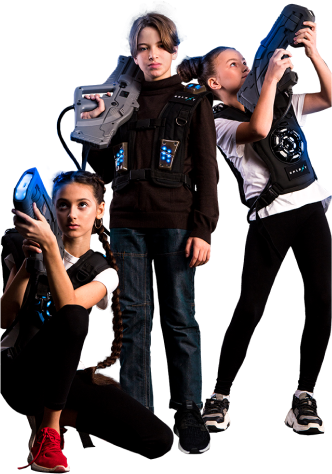
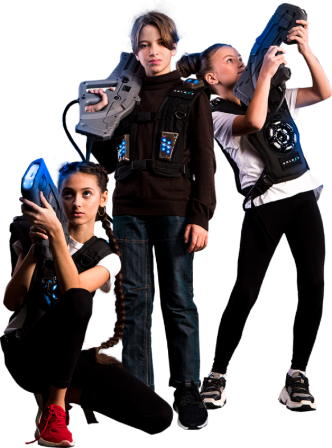
хедер + адаптив

diff --git a/dist/css/main.css b/dist/css/main.css
@@ -1,1 +1,1 @@
-.birsday-choose{text-align:center}.birsday-choose .card-image img{max-height:3000px}.card-undertext{font-size:18px;line-height:1.3}#navigation{top:0!important}.section-dark{position:relative;padding:0!important;z-index:-1}.wrapper{width:100%;min-height:100%;overflow:hidden;display:-webkit-box;display:-ms-flexbox;display:flex;-webkit-box-orient:vertical;-webkit-box-direction:normal;-ms-flex-direction:column;flex-direction:column}.header-bg{background:url(../images/desktop/bg_grig_d.png) center no-repeat,url(../images/desktop/bg_flash_d.jpg) center no-repeat,#000}.hentry{margin:100px 0 0 0}.entry-header{margin-top:-60px;text-align:center}.entry-title{font-size:29px}.entry-title span{color:#0090ff;font-weight:700}.entry-content{text-align:center;font-size:17px;line-height:20px}.banner__title{text-align:center;font-size:24px}.banner__title span{color:#0090ff}
+.birsday-choose{text-align:center}.birsday-choose .card-image img{max-height:3000px}.card-undertext{font-size:18px;line-height:1.3}#navigation{top:0!important}.section-dark{position:relative;padding:0!important;z-index:-1}.wrapper{width:100%;min-height:100%;overflow:hidden;display:-webkit-box;display:-ms-flexbox;display:flex;-webkit-box-orient:vertical;-webkit-box-direction:normal;-ms-flex-direction:column;flex-direction:column}.header-bg{background:url(../images/desktop/bg_grig_d.png) 100% 350px/140% 35% no-repeat,url(../images/desktop/bg_flash_d.jpg) center/200% 70% no-repeat,#000}.hentry{margin:100px 0 0 0}.entry-header{margin-top:-60px;text-align:center}.entry-title{font-size:29px;color:#fff}.entry-title span{color:#0090ff;font-weight:700}.entry-content{text-align:center;font-size:17px;line-height:20px;color:#fff}.banner{display:-webkit-box;display:-ms-flexbox;display:flex;-webkit-box-orient:vertical;-webkit-box-direction:normal;-ms-flex-direction:column;flex-direction:column;-webkit-box-align:center;-ms-flex-align:center;align-items:center}.banner__title{margin:20px 0 0 0;text-align:center;font-size:27px;color:#fff;width:205px}.banner__title span{color:#0090ff}@media (min-width:479.99px){.banner__title{width:370px;font-size:35px}}@media (min-width:767.99px){.header-bg{background:url(../images/desktop/bg_grig_d.png) 100% 275px/100% 50% no-repeat,url(../images/desktop/bg_flash_d.jpg) center/200% 70% no-repeat,#000}.banner picture{width:50%}.banner{-webkit-box-orient:horizontal;-webkit-box-direction:reverse;-ms-flex-direction:row-reverse;flex-direction:row-reverse;-ms-flex-pack:distribute;justify-content:space-around}}@media (min-width:1023.99px){.header-bg{background:url(../images/desktop/bg_grig_d.png) 100% 175px/100% 70% no-repeat,url(../images/desktop/bg_flash_d.jpg) center/200% 70% no-repeat,#000}.banner__title{margin:60px 0 0 0;width:500px;font-size:42px;text-align:left}}@media (min-width:1199.99px){.header-bg{background:url(../images/desktop/bg_grig_d.png) 100% 175px/100% 75% no-repeat,url(../images/desktop/bg_flash_d.jpg) center/200% 70% no-repeat,#000}}@media (min-width:1439.99px){.banner picture{width:60%;padding-left:150px}.banner{-webkit-box-pack:justify;-ms-flex-pack:justify;justify-content:space-between}}@media (min-width:1440px){.container{max-width:1280px!important}}

diff --git a/src/scss/main.scss b/src/scss/main.scss
@@ -34,6 +34,11 @@ $blue: #0090FF;
   padding: 0!important;
   z-index: -1;
 }
+@media (min-width: 1440px) {
+  .container{
+    max-width: 1280px!important;
+  }
+}
 // =============переопределение стилей
 
 
@@ -50,7 +55,17 @@ $blue: #0090FF;
 .container {
 }
 .header-bg{
-  background: url(../images/desktop/bg_grig_d.png) center no-repeat, url(../images/desktop/bg_flash_d.jpg) center no-repeat, $black;
+  background: url(../images/desktop/bg_grig_d.png) 100% 350px/140% 35% no-repeat,url(../images/desktop/bg_flash_d.jpg) center/200% 70% no-repeat, $black;
+  @media (min-width: 767.99px) {
+    background: url(../images/desktop/bg_grig_d.png) 100% 275px/100% 50% no-repeat,url(../images/desktop/bg_flash_d.jpg) center/200% 70% no-repeat, $black;
+  }
+  @media (min-width: 1023.99px) {
+    background: url(../images/desktop/bg_grig_d.png) 100% 175px/100% 70% no-repeat,url(../images/desktop/bg_flash_d.jpg) center/200% 70% no-repeat,#000;
+  }
+  @media (min-width: 1199.99px) {
+    background: url(../images/desktop/bg_grig_d.png) 100% 175px/100% 75% no-repeat,url(../images/desktop/bg_flash_d.jpg) center/200% 70% no-repeat,#000;
+  
+  }
 }
 
 .hentry {
@@ -59,9 +74,11 @@ $blue: #0090FF;
 .entry-header {
   margin-top: -60px;
   text-align: center;
+  
 }
 .entry-title {
   font-size: 29px;
+  color: $white;
   span{
     color: $blue;
     font-weight: bold;
@@ -71,14 +88,47 @@ $blue: #0090FF;
   text-align: center;
   font-size: 17px;
   line-height: 20px;
+  color: $white;
 }
 .banner {
+  picture{
+    @media (min-width: 767.99px) {
+      width: 50%;
+    }
+    @media (min-width: 1439.99px) {
+      width: 60%;
+      padding-left: 150px;
+    }
+    }
+  display: flex;
+  flex-direction: column;
+  align-items: center;
+  @media (min-width: 767.99px) {
+    flex-direction: row-reverse;
+    justify-content: space-around;
+  }
+  @media (min-width: 1439.99px) {
+    justify-content: space-between;
+  }
 		// .banner__title
 		&__title {
+      margin: 20px 0px 0px 0px;
       text-align: center;
-      font-size: 24px;
+      font-size: 27px;
+      color: $white;
+      width: 205px;
       span{
         color: $blue;
+      }
+      @media (min-width: 479.99px) {
+        width: 370px;
+        font-size: 35px;
+      }
+      @media (min-width: 1023.99px) {
+        margin: 60px 0px 0px 0px;
+        width: 500px;
+        font-size: 42px;
+        text-align: left;
       }
     }
 }

diff --git a/dist/index.html b/dist/index.html
@@ -303,14 +303,16 @@
 						</article>
 						<div class="banner">
 							<picture>
-								<source srcset="images/desktop/header_children_d.png" media="(min-width: 1024px)">
+								<source srcset="images/desktop/header_children_d.png" media="(min-width: 767.99px)">
 								<img src="images/mobile/header_children_m.png" alt="">
 							</picture>
-							<div class="banner__title">Рекомендуємо найкраще свято для дітей віком<br><span>від 5 до 8 років</span></div>
+							<div class="banner__title">Рекомендуємо найкраще свято для дітей віком <br><span>від 5 до 8 років</span></div>
 						</div>
 					</article>
 				</div>
+				<div style="height: 100px;"></div>
 			</section>
+
 		</div> 
 <section class="birsday-choose customNoWpStyleFB">
 	<div class="container">

diff --git a/dist/header.html b/dist/header.html
@@ -303,12 +303,14 @@
 						</article>
 						<div class="banner">
 							<picture>
-								<source srcset="images/desktop/header_children_d.png" media="(min-width: 1024px)">
+								<source srcset="images/desktop/header_children_d.png" media="(min-width: 767.99px)">
 								<img src="images/mobile/header_children_m.png" alt="">
 							</picture>
-							<div class="banner__title">Рекомендуємо найкраще свято для дітей віком<br><span>від 5 до 8 років</span></div>
+							<div class="banner__title">Рекомендуємо найкраще свято для дітей віком <br><span>від 5 до 8 років</span></div>
 						</div>
 					</article>
 				</div>
+				<div style="height: 100px;"></div>
 			</section>
+
 		</div>

diff --git a/src/header.html b/src/header.html
@@ -303,12 +303,14 @@
 						</article>
 						<div class="banner">
 							<picture>
-								<source srcset="images/desktop/header_children_d.png" media="(min-width: 1024px)">
+								<source srcset="images/desktop/header_children_d.png" media="(min-width: 767.99px)">
 								<img src="images/mobile/header_children_m.png" alt="">
 							</picture>
-							<div class="banner__title">Рекомендуємо найкраще свято для дітей віком<br><span>від 5 до 8 років</span></div>
+							<div class="banner__title">Рекомендуємо найкраще свято для дітей віком <br><span>від 5 до 8 років</span></div>
 						</div>
 					</article>
 				</div>
+				<div style="height: 100px;"></div>
 			</section>
+
 		</div>
